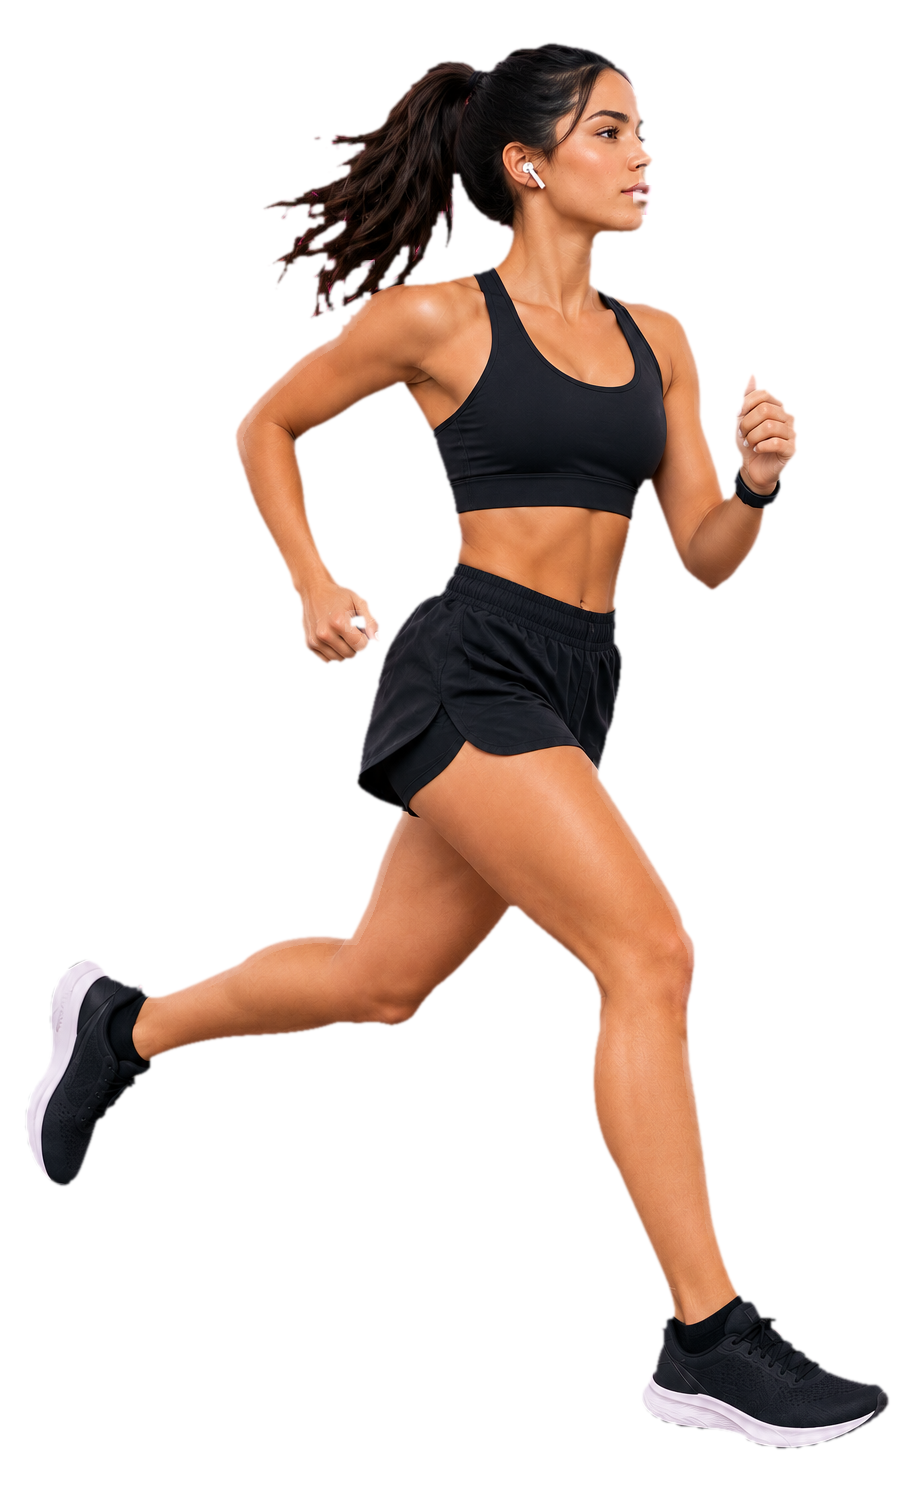
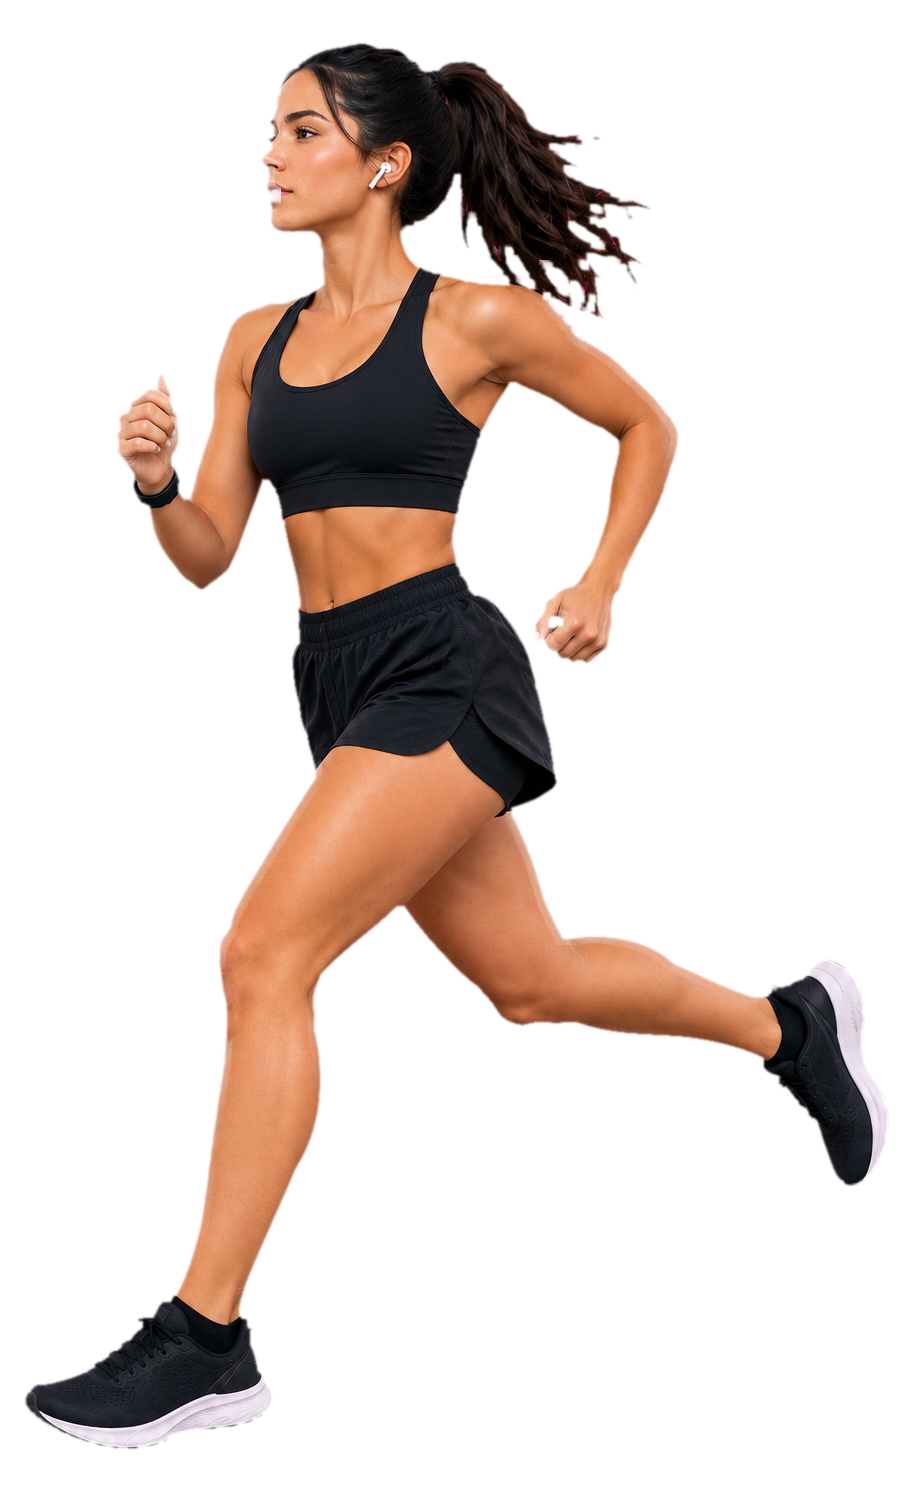
new

diff --git a/src/index.css b/src/index.css
@@ -579,18 +579,9 @@ h1, h2, h3, h4 {
   transition: opacity 0.6s ease, transform 1.1s cubic-bezier(0.16, 1, 0.3, 1);
 }
 
-.gender-banner-f .gender-photo {
-  transform: scaleX(-1) scale(1.08);
-}
-
 .gender-banner:hover .gender-photo {
   opacity: 1;
   transform: scale(1);
-}
-
-.gender-banner-f:hover .gender-photo {
-  opacity: 1;
-  transform: scaleX(-1) scale(1);
 }
 
 .gender-banner::after {
@@ -1491,6 +1482,14 @@ input:focus {
   }
   .promo-bar {
     padding: 8px 16px;
+  }
+}
+
+/* Touch devices have no hover, so always show the photo there */
+@media (hover: none) {
+  .gender-photo {
+    opacity: 1 !important;
+    transform: scale(1) !important;
   }
 }
 
